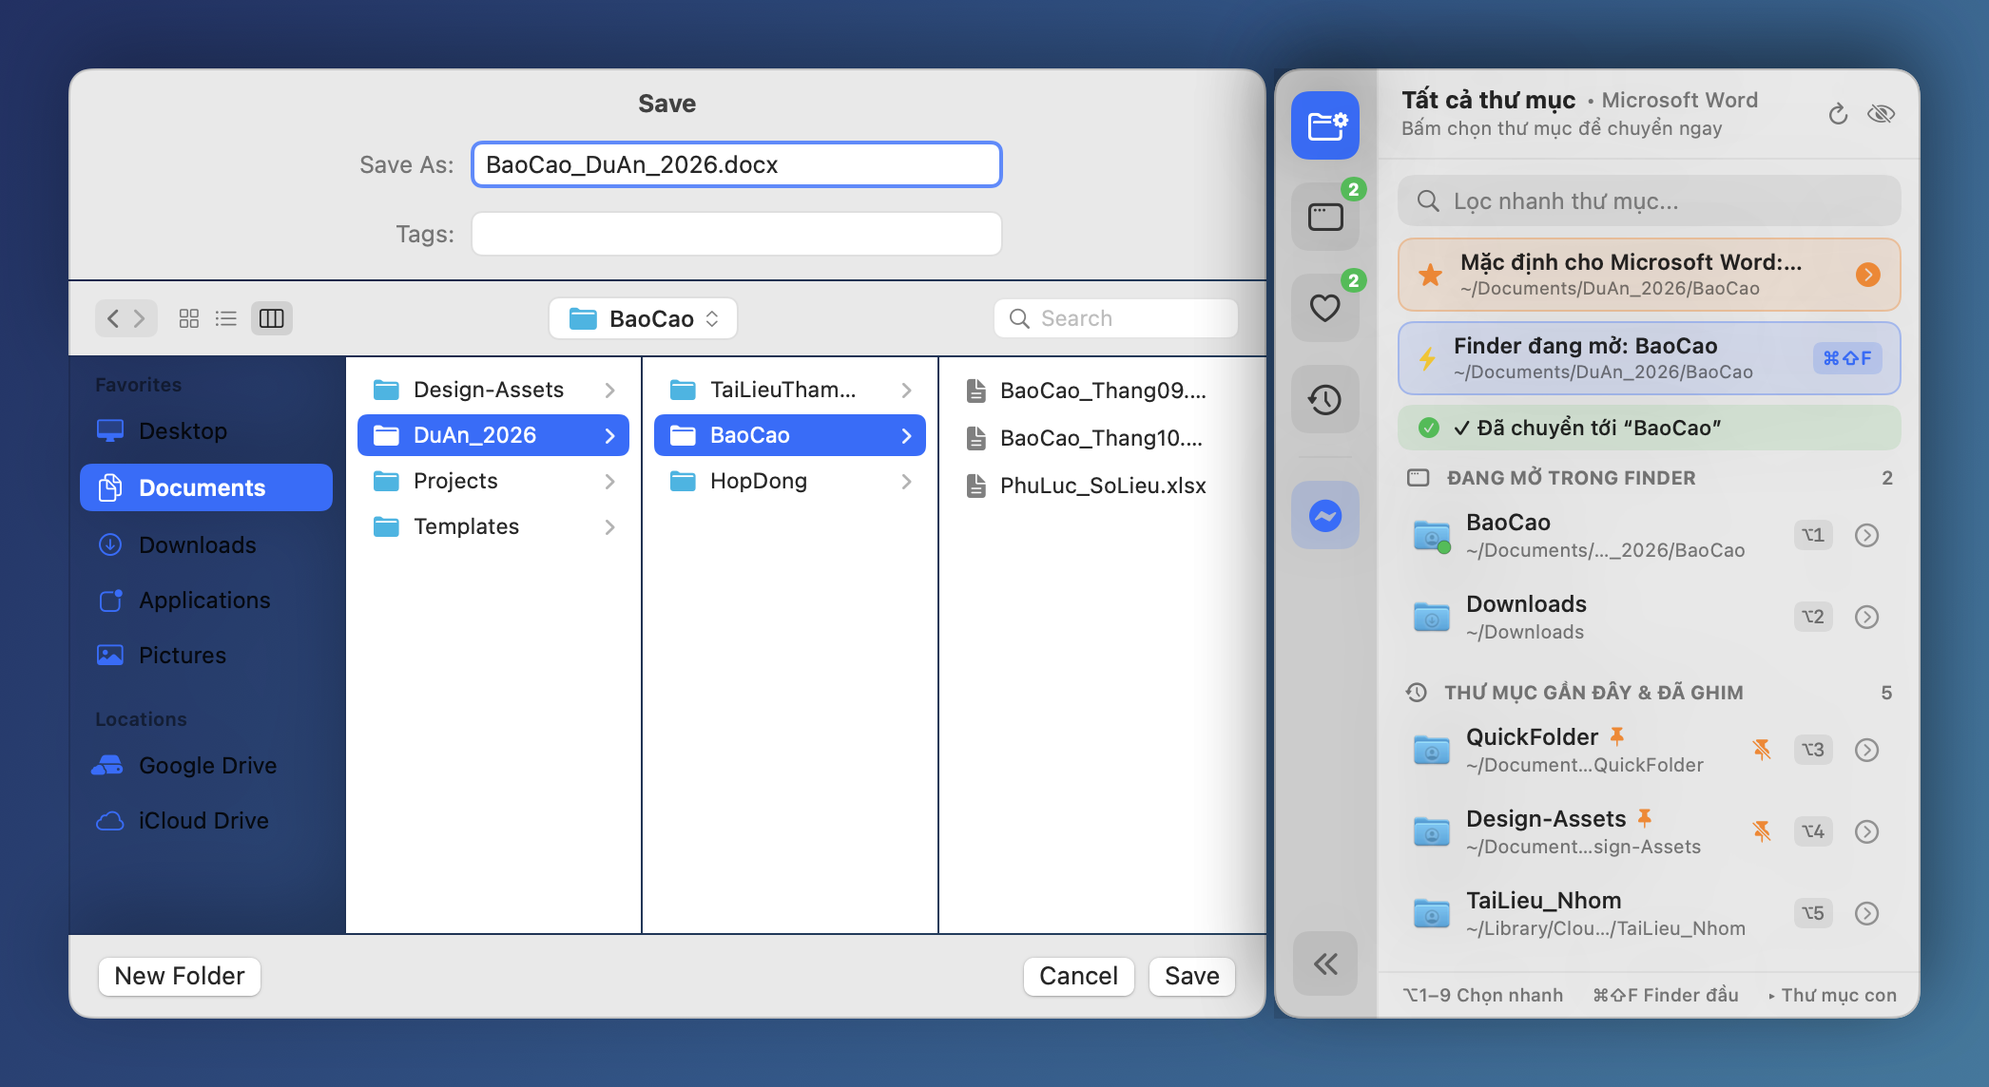
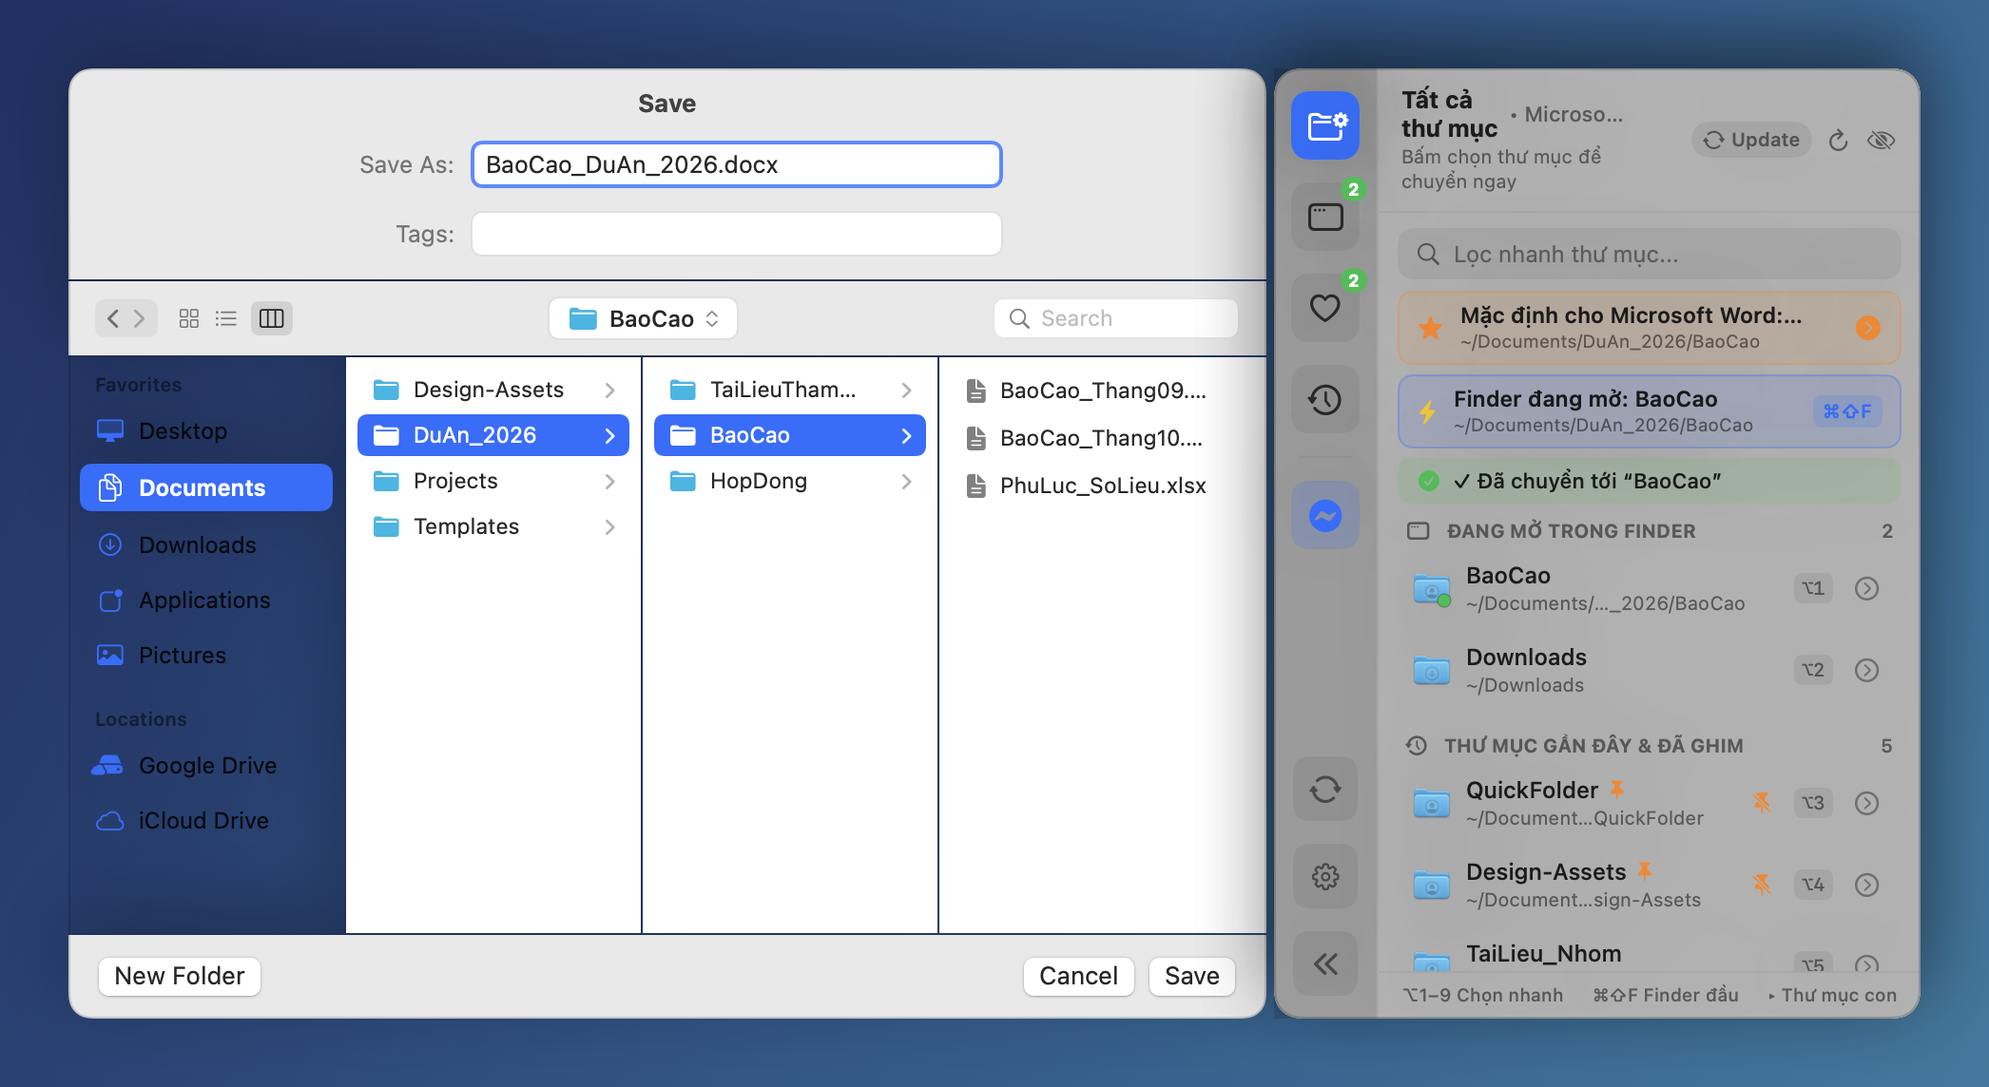
feat(update): add 1-click Update from GitHub button across Floating Sidebar, Dashboard & Menu Bar (v1.3.0)

Changed region(s): [[0.6214, 0.0612, 0.9632, 0.9484]]

diff --git a/Sources/QuickFolder/UI/FloatingPanelView.swift b/Sources/QuickFolder/UI/FloatingPanelView.swift
@@ -7,6 +7,7 @@ struct FloatingPanelView: View {
     @ObservedObject var navigator: FolderNavigator
     @ObservedObject var panelController: FloatingPanelController
     @ObservedObject var hotKeyManager: HotKeyManager
+    @ObservedObject var updateChecker: UpdateChecker
 
     var onCloseRequested: (() -> Void)?
 
@@ -20,6 +21,7 @@ struct FloatingPanelView: View {
         self.navigator = FolderNavigator.shared
         self.panelController = panelController
         self.hotKeyManager = HotKeyManager.shared
+        self.updateChecker = UpdateChecker.shared
         self.onCloseRequested = onCloseRequested
     }
 
@@ -63,6 +65,10 @@ struct FloatingPanelView: View {
                         .opacity(0.5)
 
                     searchBarSection
+
+                    if let newVer = updateChecker.availableVersion {
+                        githubUpdateBanner(version: newVer)
+                    }
 
                     if let activeApp = detector.activePanel,
                        let appDefault = folderManager.defaultFolderItem(for: activeApp.appIdentifierKey),
@@ -174,6 +180,51 @@ struct FloatingPanelView: View {
 
             Spacer()
 
+            // Update from GitHub button (with green badge if a new version is available)
+            Button {
+                if updateChecker.availableVersion != nil {
+                    updateChecker.installAvailableUpdate()
+                } else {
+                    updateChecker.checkForUpdates(showAlert: true)
+                }
+            } label: {
+                ZStack(alignment: .topTrailing) {
+                    RoundedRectangle(cornerRadius: 8, style: .continuous)
+                        .fill(updateChecker.availableVersion != nil ? Color.green.opacity(0.22) : Color.primary.opacity(0.08))
+                        .frame(width: 34, height: 34)
+                    Image(systemName: updateChecker.availableVersion != nil ? "arrow.down.circle.fill" : "arrow.triangle.2.circlepath")
+                        .font(.system(size: 14, weight: .semibold))
+                        .foregroundStyle(updateChecker.availableVersion != nil ? Color.green : Color.secondary)
+                        .frame(width: 34, height: 34)
+
+                    if updateChecker.availableVersion != nil {
+                        Circle()
+                            .fill(Color.green)
+                            .frame(width: 8, height: 8)
+                            .offset(x: 2, y: -2)
+                    }
+                }
+            }
+            .buttonStyle(.plain)
+            .disabled(updateChecker.isChecking || updateChecker.isInstallingUpdate)
+            .help(updateChecker.availableVersion.map { "Update ngay lên v\($0) từ GitHub" } ?? "Update từ GitHub")
+
+            // Open Settings & Dashboard window
+            Button {
+                AppDelegate.shared?.showDashboardWindow()
+            } label: {
+                ZStack {
+                    RoundedRectangle(cornerRadius: 8, style: .continuous)
+                        .fill(Color.primary.opacity(0.08))
+                        .frame(width: 34, height: 34)
+                    Image(systemName: "gearshape")
+                        .font(.system(size: 13.5, weight: .medium))
+                        .foregroundStyle(.secondary)
+                }
+            }
+            .buttonStyle(.plain)
+            .help("Mở Cài đặt & Thử nghiệm")
+
             // Collapse / Expand Sidebar Toggle
             Button {
                 panelController.isCompactBezel.toggle()
@@ -256,6 +307,31 @@ struct FloatingPanelView: View {
             Spacer()
 
             Button {
+                if updateChecker.availableVersion != nil {
+                    updateChecker.installAvailableUpdate()
+                } else {
+                    updateChecker.checkForUpdates(showAlert: true)
+                }
+            } label: {
+                HStack(spacing: 3) {
+                    Image(systemName: updateChecker.availableVersion != nil ? "arrow.down.circle.fill" : "arrow.triangle.2.circlepath")
+                        .font(.system(size: 9.5, weight: .semibold))
+                    Text(updateChecker.availableVersion.map { "v\($0)" } ?? "Update")
+                        .font(.system(size: 10, weight: .semibold))
+                }
+                .padding(.horizontal, 6)
+                .padding(.vertical, 3)
+                .background(
+                    Capsule()
+                        .fill(updateChecker.availableVersion != nil ? Color.green.opacity(0.2) : Color.primary.opacity(0.08))
+                )
+                .foregroundStyle(updateChecker.availableVersion != nil ? Color.green : Color.secondary)
+            }
+            .buttonStyle(.plain)
+            .disabled(updateChecker.isChecking || updateChecker.isInstallingUpdate)
+            .help("Update từ GitHub (hungmtuci/QuickFolder)")
+
+            Button {
                 folderManager.refreshNow()
             } label: {
                 Image(systemName: "arrow.clockwise")
@@ -325,6 +401,51 @@ struct FloatingPanelView: View {
         .padding(.horizontal, 10)
         .padding(.top, 8)
         .padding(.bottom, 4)
+    }
+
+    private func githubUpdateBanner(version: String) -> some View {
+        Button {
+            updateChecker.installAvailableUpdate()
+        } label: {
+            HStack(spacing: 8) {
+                Image(systemName: "arrow.down.circle.fill")
+                    .font(.system(size: 12, weight: .bold))
+                    .foregroundStyle(.green)
+
+                VStack(alignment: .leading, spacing: 1) {
+                    Text("Đã có QuickFolder v\(version) trên GitHub")
+                        .font(.system(size: 11.5, weight: .semibold))
+                        .foregroundStyle(.primary)
+                        .lineLimit(1)
+                    Text("Bấm để tải & cập nhật tự động ngay")
+                        .font(.system(size: 9.5))
+                        .foregroundStyle(.secondary)
+                        .lineLimit(1)
+                }
+
+                Spacer()
+
+                Text("Update")
+                    .font(.system(size: 10, weight: .bold))
+                    .padding(.horizontal, 6)
+                    .padding(.vertical, 2.5)
+                    .background(Capsule().fill(Color.green))
+                    .foregroundStyle(.white)
+            }
+            .padding(.horizontal, 10)
+            .padding(.vertical, 6)
+            .background(
+                RoundedRectangle(cornerRadius: 8, style: .continuous)
+                    .fill(Color.green.opacity(0.14))
+            )
+            .overlay(
+                RoundedRectangle(cornerRadius: 8, style: .continuous)
+                    .strokeBorder(Color.green.opacity(0.4), lineWidth: 1)
+            )
+        }
+        .buttonStyle(.plain)
+        .padding(.horizontal, 10)
+        .padding(.vertical, 2)
     }
 
     private func perAppDefaultBanner(folder: FolderItem, appName: String) -> some View {

diff --git a/Sources/QuickFolder/Services/UpdateChecker.swift b/Sources/QuickFolder/Services/UpdateChecker.swift
@@ -25,7 +25,7 @@ final class UpdateChecker: ObservableObject {
     private var progressBar: NSProgressIndicator?
 
     var currentVersion: String {
-        (Bundle.main.infoDictionary?["CFBundleShortVersionString"] as? String) ?? "1.2.0"
+        (Bundle.main.infoDictionary?["CFBundleShortVersionString"] as? String) ?? "1.3.0"
     }
 
     private init() {}
@@ -60,18 +60,18 @@ final class UpdateChecker: ObservableObject {
 
                 isChecking = false
 
+                let zipURL = release.assets
+                    .first(where: { $0.name.lowercased().hasSuffix(".zip") })
+                    .flatMap { URL(string: $0.browser_download_url) }
+
+                let dmgURL = release.assets
+                    .first(where: { $0.name.lowercased().hasSuffix(".dmg") })
+                    .flatMap { URL(string: $0.browser_download_url) }
+
+                let htmlURL = URL(string: release.html_url) ?? releasesPageURL
+                let autoAssetURL = zipURL ?? dmgURL
+
                 if Self.isNewerVersion(remote: remoteVersion, local: localVersion) {
-                    let zipURL = release.assets
-                        .first(where: { $0.name.lowercased().hasSuffix(".zip") })
-                        .flatMap { URL(string: $0.browser_download_url) }
-
-                    let dmgURL = release.assets
-                        .first(where: { $0.name.lowercased().hasSuffix(".dmg") })
-                        .flatMap { URL(string: $0.browser_download_url) }
-
-                    let htmlURL = URL(string: release.html_url) ?? releasesPageURL
-                    let autoAssetURL = zipURL ?? dmgURL
-
                     availableVersion = remoteVersion
                     cachedAutoUpdateURL = autoAssetURL
                     cachedDmgURL = dmgURL
@@ -90,10 +90,17 @@ final class UpdateChecker: ObservableObject {
                     }
                 } else {
                     availableVersion = nil
-                    cachedAutoUpdateURL = nil
+                    cachedAutoUpdateURL = autoAssetURL
+                    cachedDmgURL = dmgURL
+                    cachedReleasePageURL = htmlURL
                     statusText = "Đang ở bản mới nhất (v\(localVersion))"
                     if showAlert {
-                        presentUpToDateAlert(version: localVersion)
+                        presentUpToDateAlert(
+                            localVersion: localVersion,
+                            remoteVersion: remoteVersion,
+                            autoUpdateURL: autoAssetURL,
+                            releaseURL: htmlURL
+                        )
                     }
                 }
             } catch {
@@ -184,14 +191,40 @@ final class UpdateChecker: ObservableObject {
         }
     }
 
-    private func presentUpToDateAlert(version: String) {
+    private func presentUpToDateAlert(
+        localVersion: String,
+        remoteVersion: String,
+        autoUpdateURL: URL?,
+        releaseURL: URL
+    ) {
         let alert = NSAlert()
         alert.alertStyle = .informational
-        alert.messageText = "Bạn đang dùng phiên bản mới nhất"
-        alert.informativeText = "QuickFolder v\(version) hiện là bản phát hành mới nhất trên GitHub (hungmtuci/QuickFolder)."
-        alert.addButton(withTitle: "OK")
+        alert.messageText = "Bạn đang ở phiên bản mới nhất (v\(localVersion))"
+        alert.informativeText = "Bản mới nhất trên GitHub (hungmtuci/QuickFolder) hiện là v\(remoteVersion).\nBạn vẫn có thể bấm 'Tải & Cài lại từ GitHub' nếu muốn đồng bộ lại bản sạch trực tiếp từ GitHub."
+        alert.addButton(withTitle: "Đóng")
+        if autoUpdateURL != nil {
+            alert.addButton(withTitle: "Tải & Cài lại từ GitHub (v\(remoteVersion))")
+        }
+        alert.addButton(withTitle: "Mở trang GitHub")
+
         NSApp.activate(ignoringOtherApps: true)
-        alert.runModal()
+        let response = alert.runModal()
+
+        if let autoURL = autoUpdateURL {
+            if response == .alertSecondButtonReturn {
+                Task {
+                    await downloadAndInstallUpdate(
+                        remoteVersion: remoteVersion,
+                        assetURL: autoURL,
+                        fallbackURL: releaseURL
+                    )
+                }
+            } else if response == .alertThirdButtonReturn {
+                NSWorkspace.shared.open(releaseURL)
+            }
+        } else if response == .alertSecondButtonReturn {
+            NSWorkspace.shared.open(releaseURL)
+        }
     }
 
     // MARK: - Automatic Download, Extraction & Self-Replacement
@@ -243,6 +276,9 @@ final class UpdateChecker: ObservableObject {
                 fraction: 1.0,
                 indeterminate: true
             )
+
+            UserDefaults.standard.set(true, forKey: "QF_OpenDashboardAfterUpdate")
+            UserDefaults.standard.synchronize()
 
             try launchDetachedSwapAndRestart(extractedAppURL: extractedAppURL, stageDir: stageDir)
 

diff --git a/Sources/QuickFolder/QuickFolderApp.swift b/Sources/QuickFolder/QuickFolderApp.swift
@@ -38,9 +38,12 @@ final class AppDelegate: NSObject, NSApplicationDelegate, NSMenuDelegate {
         setupStatusBarMenu()
         setupHotKeys()
 
-        // Only auto-open the dashboard on first launch or if Accessibility permission is missing;
-        // otherwise start silently in the Menu Bar.
-        if LaunchAtLoginManager.shared.shouldOpenDashboardOnStartup() {
+        // Auto-open the dashboard after a GitHub self-update, explicit CLI flag, first launch, or missing Accessibility permission
+        let didJustUpdate = UserDefaults.standard.bool(forKey: "QF_OpenDashboardAfterUpdate")
+        if didJustUpdate {
+            UserDefaults.standard.removeObject(forKey: "QF_OpenDashboardAfterUpdate")
+        }
+        if didJustUpdate || CommandLine.arguments.contains("--open-dashboard") || LaunchAtLoginManager.shared.shouldOpenDashboardOnStartup() {
             showDashboardWindow()
         }
 
@@ -216,7 +219,7 @@ final class AppDelegate: NSObject, NSApplicationDelegate, NSMenuDelegate {
         } else {
             if let newVer = updater.availableVersion {
                 let autoUpdateItem = NSMenuItem(
-                    title: "Tải & Cập nhật tự động (v\(newVer))",
+                    title: "Update ngay lên v\(newVer) từ GitHub",
                     action: #selector(installAvailableUpdateAction),
                     keyEquivalent: ""
                 )
@@ -226,11 +229,11 @@ final class AppDelegate: NSObject, NSApplicationDelegate, NSMenuDelegate {
             }
 
             let updateItem = NSMenuItem(
-                title: updater.isChecking ? "Đang kiểm tra cập nhật..." : "Kiểm tra cập nhật",
+                title: updater.isChecking ? "Đang kết nối GitHub..." : "Update từ GitHub...",
                 action: updater.isChecking ? nil : #selector(checkForUpdatesAction),
-                keyEquivalent: ""
+                keyEquivalent: "u"
             )
-            updateItem.image = NSImage(systemSymbolName: "arrow.triangle.2.circlepath", accessibilityDescription: nil)
+            updateItem.image = NSImage(systemSymbolName: "arrow.down.circle", accessibilityDescription: nil)
             updateItem.isEnabled = !updater.isChecking
             updateItem.target = self
             menu.addItem(updateItem)

diff --git a/Sources/QuickFolder/UI/SettingsAndTestView.swift b/Sources/QuickFolder/UI/SettingsAndTestView.swift
@@ -81,8 +81,10 @@ struct SettingsAndTestView: View {
                     Button {
                         updateChecker.installAvailableUpdate()
                     } label: {
-                        Label("Tải & Cập nhật tự động (v\(newVer))", systemImage: "arrow.down.circle.fill")
-                            .font(.system(size: 11, weight: .semibold))
+                        Label("Update ngay lên v\(newVer) từ GitHub", systemImage: "arrow.down.circle.fill")
+                            .font(.system(size: 11.5, weight: .semibold))
+                            .padding(.horizontal, 6)
+                            .padding(.vertical, 2)
                     }
                     .buttonStyle(.borderedProminent)
                     .tint(.green)
@@ -93,12 +95,16 @@ struct SettingsAndTestView: View {
                     } label: {
                         Label(
                             updateChecker.isInstallingUpdate
-                                ? (updateChecker.statusText ?? "Đang cập nhật...")
-                                : (updateChecker.isChecking ? "Đang kiểm tra..." : "Kiểm tra cập nhật"),
-                            systemImage: "arrow.triangle.2.circlepath"
+                                ? (updateChecker.statusText ?? "Đang cập nhật từ GitHub...")
+                                : (updateChecker.isChecking ? "Đang kết nối GitHub..." : "Update từ GitHub"),
+                            systemImage: "arrow.down.circle.fill"
                         )
-                        .font(.system(size: 11))
+                        .font(.system(size: 11.5, weight: .semibold))
+                        .padding(.horizontal, 6)
+                        .padding(.vertical, 2)
                     }
+                    .buttonStyle(.bordered)
+                    .tint(.green)
                     .controlSize(.small)
                     .disabled(updateChecker.isChecking || updateChecker.isInstallingUpdate)
                 }

diff --git a/README.md b/README.md
@@ -12,14 +12,14 @@
   <img src="docs/images/settings-dashboard.png" alt="Bảng điều khiển Cài đặt & Thử nghiệm QuickFolder" width="760" />
 </p>
 
-## ✨ Tính năng nổi bật (v1.2.0)
+## ✨ Tính năng nổi bật (v1.3.0)
 
+- **Nút “Update từ GitHub” 1 chạm ở mọi nơi (Bảng nổi, Cửa sổ Cài đặt & Menu Bar)**: Tích hợp nút **Update từ GitHub** trực tiếp trên thanh bên nổi cạnh hộp thoại Save/Open, trong cửa sổ Cài đặt và trên Menu Bar (`⌘U`) — tự động kiểm tra tag mới nhất trên `hungmtuci/QuickFolder`, tải gói cập nhật kèm thanh tiến trình, thay thế `/Applications/QuickFolder.app`, gỡ cờ cách ly Gatekeeper và khởi động lại ngay lập tức (hỗ trợ cả tải & cài lại bản sạch khi đang ở phiên bản mới nhất).
 - **Thanh bên nổi tự động & Bám theo thời gian thực (`AXObserver` 60fps, ~0% CPU khi nghỉ)**: Tự động xuất hiện bám sát cạnh phải hoặc cạnh trái của hộp thoại `Save` / `Open` qua sự kiện `AXObserver` mà không tốn CPU chạy ngầm khi nghỉ.
 - **Finder-Click (Click trực tiếp cửa sổ Finder nằm phía sau)**: Khi hộp thoại Save/Open đang mở, chỉ cần di chuột ra vùng cửa sổ Finder bất kỳ trên màn hình và click 1 lần để nhảy hộp thoại Save tới thẳng thư mục đó.
 - **Duyệt cây thư mục con nhiều cấp (`▸`) & Tạo thư mục mới tức thì**: Nút `▸` trên mỗi dòng cho phép duyệt đệ quy toàn bộ cây thư mục con hoặc tạo nhanh thư mục con mới và chuyển hộp thoại Save vào ngay lập tức.
 - **Thư mục mặc định riêng cho từng ứng dụng (Per-App Default Folder)**: Gán thư mục quen dùng riêng cho từng app (ví dụ Word, Excel, Chrome) và tuỳ chọn tự động nhảy ngay khi mở hộp thoại Save.
 - **Phím tắt thông minh không xung đột IDE**: Tự động chỉ bắt `⌘⇧F` khi hộp thoại Save/Open thực sự đang mở (không bao giờ đè lên *Find in Files* `⌘⇧F` trong VS Code / Xcode / trình duyệt), kèm tuỳ chọn đổi tổ hợp phím tắt.
-- **Kiểm tra & Tải cập nhật tự động ngay trên Menu Bar (`hungmtuci/QuickFolder`)**: Bấm **“Kiểm tra cập nhật”** trực tiếp từ thanh Menu Bar để đối chiếu tag mới nhất trên GitHub Releases, tự động tải gói cập nhật kèm thanh tiến trình, thay thế `QuickFolder.app`, gỡ cờ cách ly Gatekeeper và khởi động lại phiên bản mới chỉ với 1 cú nhấp chuột.
 - **Khởi động êm cùng macOS (`Launch at Login`) & Ẩn trên thanh Dock**: Chạy gọn gàng hoàn toàn trên thanh Menu Bar.
 
 ## ⌨ Phím tắt thông minh (Smart Hotkeys)
@@ -36,8 +36,8 @@
 ## 📥 Tải về & Cài đặt nhanh (macOS 14.0+ Universal: Apple Silicon & Intel)
 
 1. Tải bộ cài mới nhất tại trang **[Releases](https://github.com/hungmtuci/QuickFolder/releases/latest)**:
-   - **`QuickFolder-Installer-v1.2.0.dmg`** *(Khuyên dùng)*
-   - Hoặc **`QuickFolder-v1.2.0-macOS.zip`**
+   - **`QuickFolder-Installer-v1.3.0.dmg`** *(Khuyên dùng)*
+   - Hoặc **`QuickFolder-v1.3.0-macOS.zip`**
 2. Mở file `.dmg`:
    - Kéo `QuickFolder.app` thả vào thư mục **`Applications`**, **HOẶC** nhấp chuột phải vào `Cai_Dat_QuickFolder.command` -> chọn **Open** để tự động cài đặt và gỡ cờ cách ly Gatekeeper.
 3. Nếu macOS báo ứng dụng chưa công chứng Apple Developer ID khi mở lần đầu trên máy mới, chạy lệnh sau trong Terminal:
